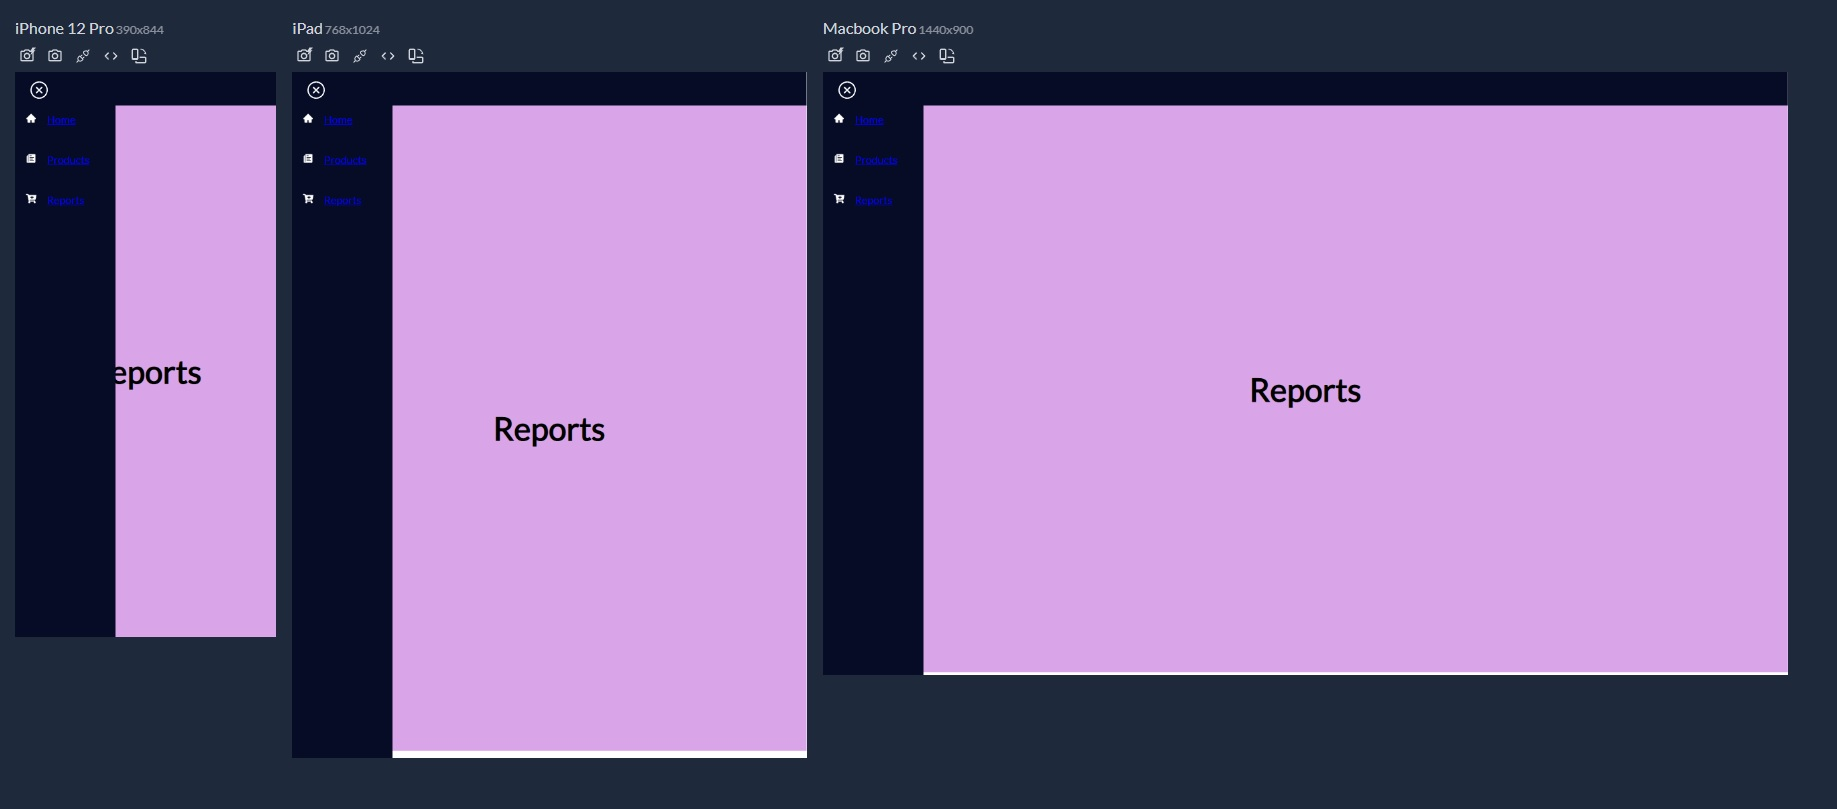
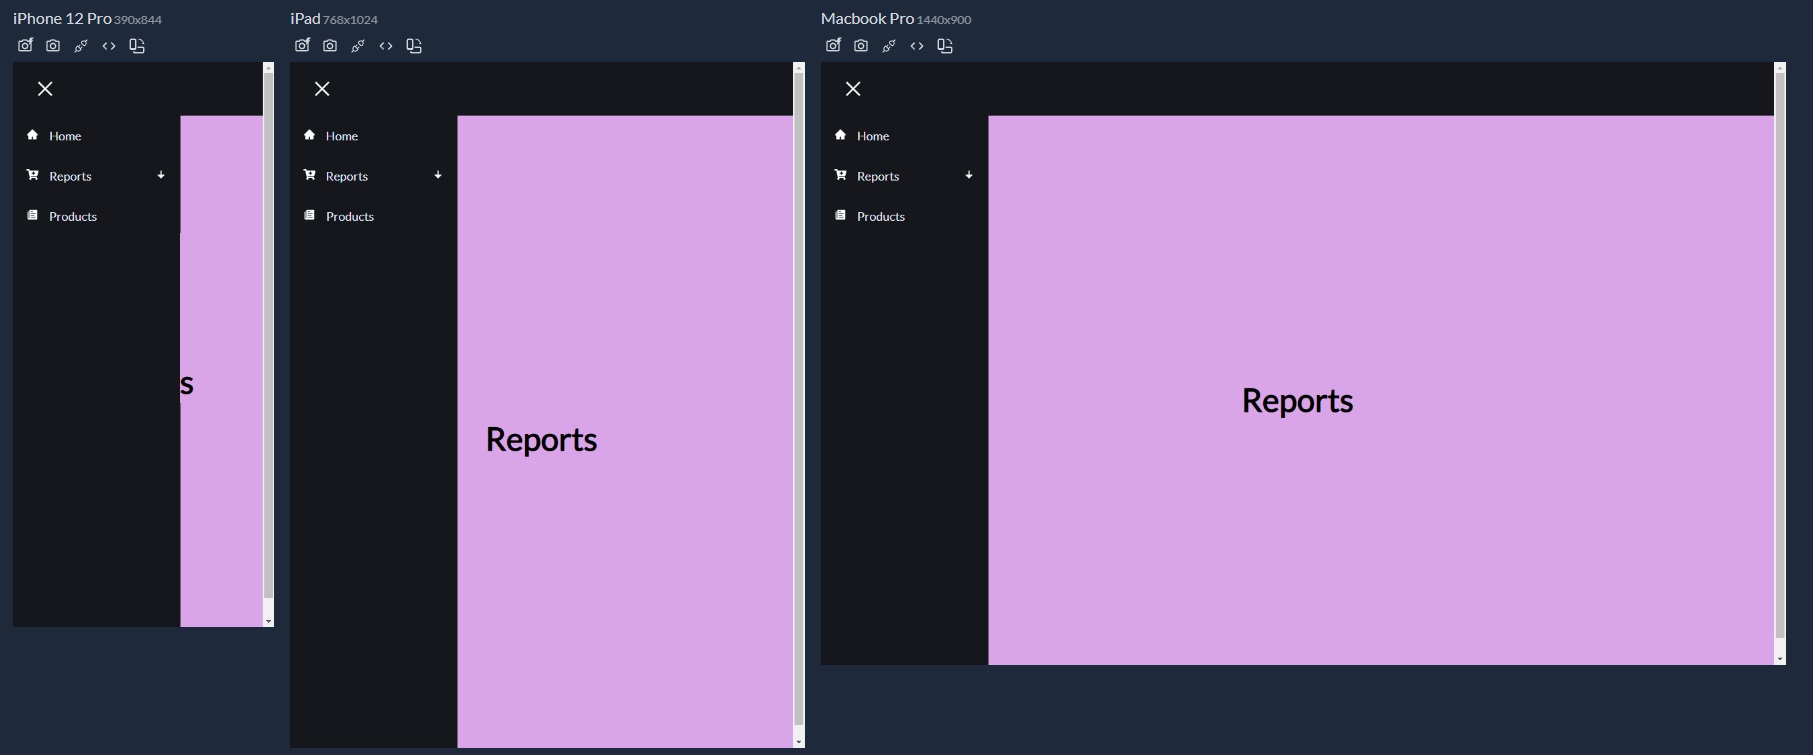
Feature: end of the project 😄

Changed region(s): [[0.0, 0.0, 0.9884, 1.0], [0.6795, 0.457, 0.7413, 0.5483]]

diff --git a/src/Components/NavBar/SubMenu.jsx b/src/Components/NavBar/SubMenu.jsx
@@ -1,0 +1,71 @@
+/* eslint-disable react/prop-types */
+import { useState } from "react";
+import styled from "styled-components";
+import { Link } from "react-router-dom";
+
+export function SubMenu({ item, close }) {
+  const [subnav, setSubnav] = useState(false);
+  const showSubnav = () => setSubnav(!subnav);
+
+  return (
+    <div>
+      <SidebarLink to={item.path} onClick={item.subNav && showSubnav}>
+        <div onClick={!item.subNav && close}>
+          {item.icon}
+          <SidebarLabel>{item.title}</SidebarLabel>
+        </div>
+        <div>
+          {item.subNav && subnav
+            ? item.iconOpened
+            : item.subNav
+            ? item.iconClosed
+            : null}
+        </div>
+      </SidebarLink>
+      {subnav &&
+        item.subNav.map((item, index) => {
+          return (
+            <DropdownLink to={item.path} key={index} onClick={close}>
+              {item.icon}
+              <SidebarLabel>{item.title}</SidebarLabel>
+            </DropdownLink>
+          );
+        })}
+    </div>
+  );
+}
+
+const SidebarLink = styled(Link)`
+  display: flex;
+  color: #e1e9fc;
+  justify-content: space-between;
+  align-items: center;
+  padding: 20px;
+  list-style: none;
+  height: 60px;
+  text-decoration: none;
+  font-size: 18px;
+
+  &:hover {
+    background: #252831;
+    border-left: 4px solid #2ce445;
+    cursor: pointer;
+  }
+`;
+const SidebarLabel = styled.span`
+  margin-left: 16px;
+`;
+const DropdownLink = styled(Link)`
+  background: #414757;
+  height: 60px;
+  padding-left: 3rem;
+  display: flex;
+  align-items: center;
+  text-decoration: none;
+  color: #f5f5;
+  font-size: 18px;
+  &:hover {
+    background: #632ce4;
+    cursor: pointer;
+  }
+`;

diff --git a/src/Components/NavBar/NavBar.jsx b/src/Components/NavBar/NavBar.jsx
@@ -2,11 +2,11 @@ import { Link } from "react-router-dom";
 import { IconContext } from "react-icons";
 import * as AiIcons from "react-icons/ai";
 import * as FaIcons from "react-icons/fa";
-import * as IoIcons from "react-icons/io";
 import { useState } from "react";
 import { Data } from "./Data";
 import "./NavBar.css";
 import styled from "styled-components";
+import { SubMenu } from "./SubMenu";
 
 export function NavBar() {
   const [sidebar, setSidebar] = useState(false);
@@ -26,7 +26,9 @@ export function NavBar() {
                   onClick={showSidebar}
                 ></AiIcons.AiOutlineClose>
               </NavIcon>
-              
+              {Data.map((item,index)=>{
+                return <SubMenu key={index} item={item} close={showSidebar}/>
+              })}
             </SidebarWrap>
           </SidebarNav>
         </Nav>
@@ -41,6 +43,8 @@ const Nav = styled.div`
   display: flex;
   justify-content: flex-start;
   align-items: center;
+
+  color:white;
 `;
 const NavIcon = styled(Link)`
   margin-left: 2rem;

diff --git a/src/Routers/routes.jsx b/src/Routers/routes.jsx
@@ -2,7 +2,7 @@ import { BrowserRouter, Routes, Route } from "react-router-dom";
 import { NavBar } from "../Components/NavBar/NavBar";
 import { Home } from "../Pages/Home";
 import { Products } from "../Pages/Products";
-import { Reports } from "../Pages/Reports";
+import { Reports,R1,R2 } from "../Pages/Reports";
 
 export function MyRoutes() {
   return (
@@ -12,6 +12,8 @@ export function MyRoutes() {
         <Route exact path="/" element={<Home />} />
         <Route exact path="/products" element={<Products />} />
         <Route exact path="/reports" element={<Reports />} />
+        <Route exact path="/reports/reports1" element={<R1 />} />
+        <Route exact path="/reports/reports2" element={<R2 />} />
       </Routes>
     </BrowserRouter>
   );

diff --git a/src/Components/NavBar/Data.jsx b/src/Components/NavBar/Data.jsx
@@ -17,6 +17,18 @@ export const Data = [
     icon: <FaIcons.FaCartPlus />,
     iconClosed: <RiIcons.RiArrowDownFill />,
     iconOpened: <RiIcons.RiArrowUpFill />,
+    subNav: [
+      {
+        title: "Report 1",
+        path: "/reports/reports1",
+        icon: <IoIcons.IoIosPaper />,
+      },
+      {
+        title: "Report 2",
+        path: "/reports/reports2",
+        icon: <IoIcons.IoIosPaper />,
+      },
+    ],
   },
   {
     title: "Products",

diff --git a/src/Pages/Reports.jsx b/src/Pages/Reports.jsx
@@ -1,3 +1,13 @@
+import {Reports1} from "../Components/Reports/Reports1"
+import {Reports2} from "../Components/Reports/Reports2"
+
 export function Reports() {
   return (<h1 className="reports">Reports</h1>);
+}
+
+export function R1() {
+  return (<Reports1/>);
+}
+export function R2() {
+  return (<Reports2/>);
 }

diff --git a/src/App.css b/src/App.css
@@ -9,11 +9,16 @@
 
 .home,
 .reports,
-.products{
+.products,
+.reports1-2{
   display: flex;
   height: 94vh;
   align-items: center;
   justify-content: center;
   font-size: 3rem;
   background-color: rgb(218, 165, 232);
+}
+.reports1-2{
+  background-color: rgb(0, 208, 255);
+  color: #ab49c4;
 }

diff --git a/index.html b/index.html
@@ -4,7 +4,7 @@
     <meta charset="UTF-8" />
     <link rel="icon" type="image/svg+xml" href="/vite.svg" />
     <meta name="viewport" content="width=device-width, initial-scale=1.0" />
-    <title>Menu 1</title>
+    <title>Menu 2</title>
   </head>
   <body>
     <div id="root"></div>

diff --git a/src/Components/Reports/Reports1.jsx b/src/Components/Reports/Reports1.jsx
@@ -1,0 +1,3 @@
+export function Reports1() {
+  return (<h1 className="reports1-2">Hi Reports1</h1>);
+}

diff --git a/src/Components/Reports/Reports2.jsx b/src/Components/Reports/Reports2.jsx
@@ -1,0 +1,3 @@
+export function Reports2() {
+  return (<h1 className="reports1-2">Hi Reports2</h1>);
+}
